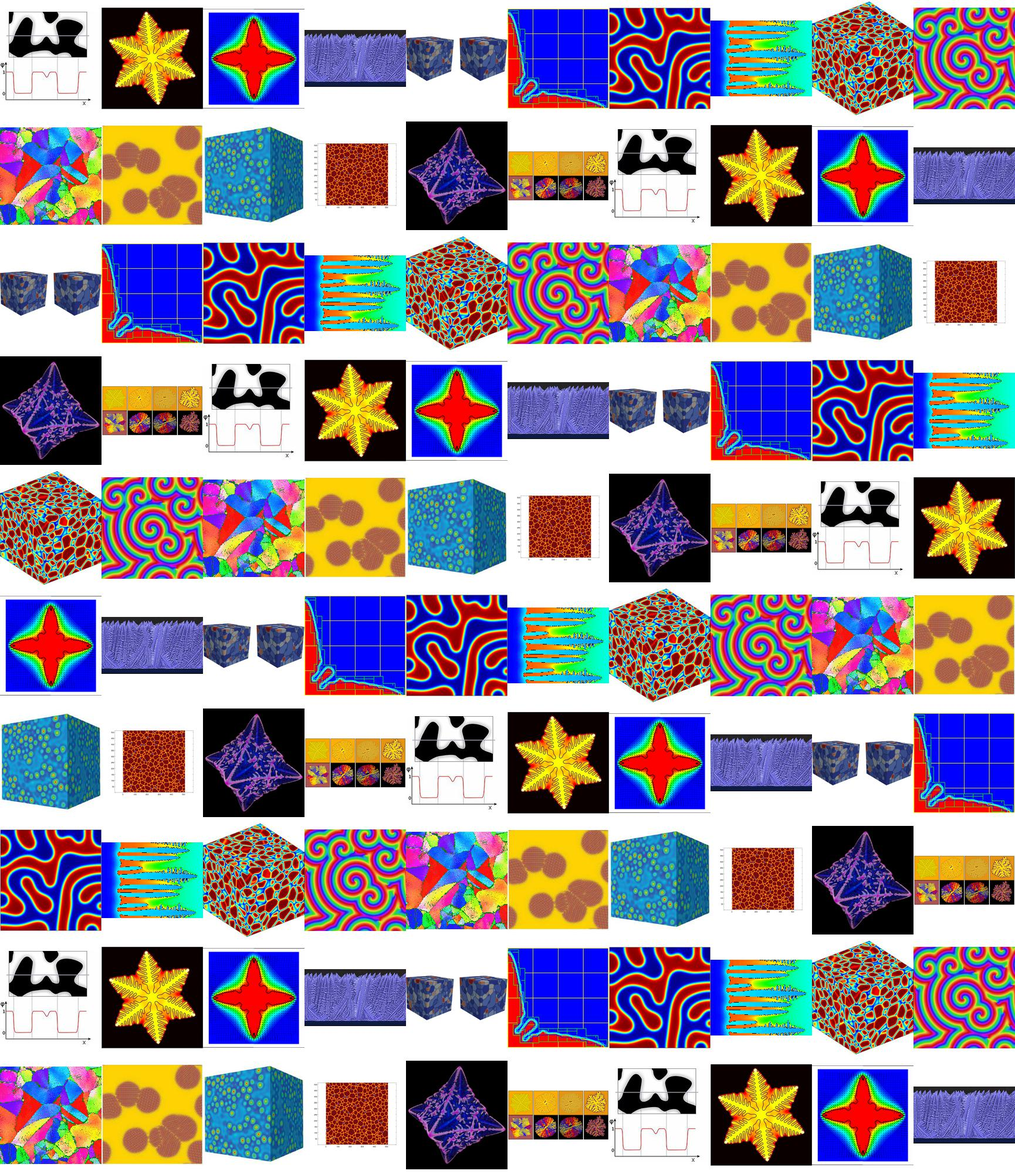
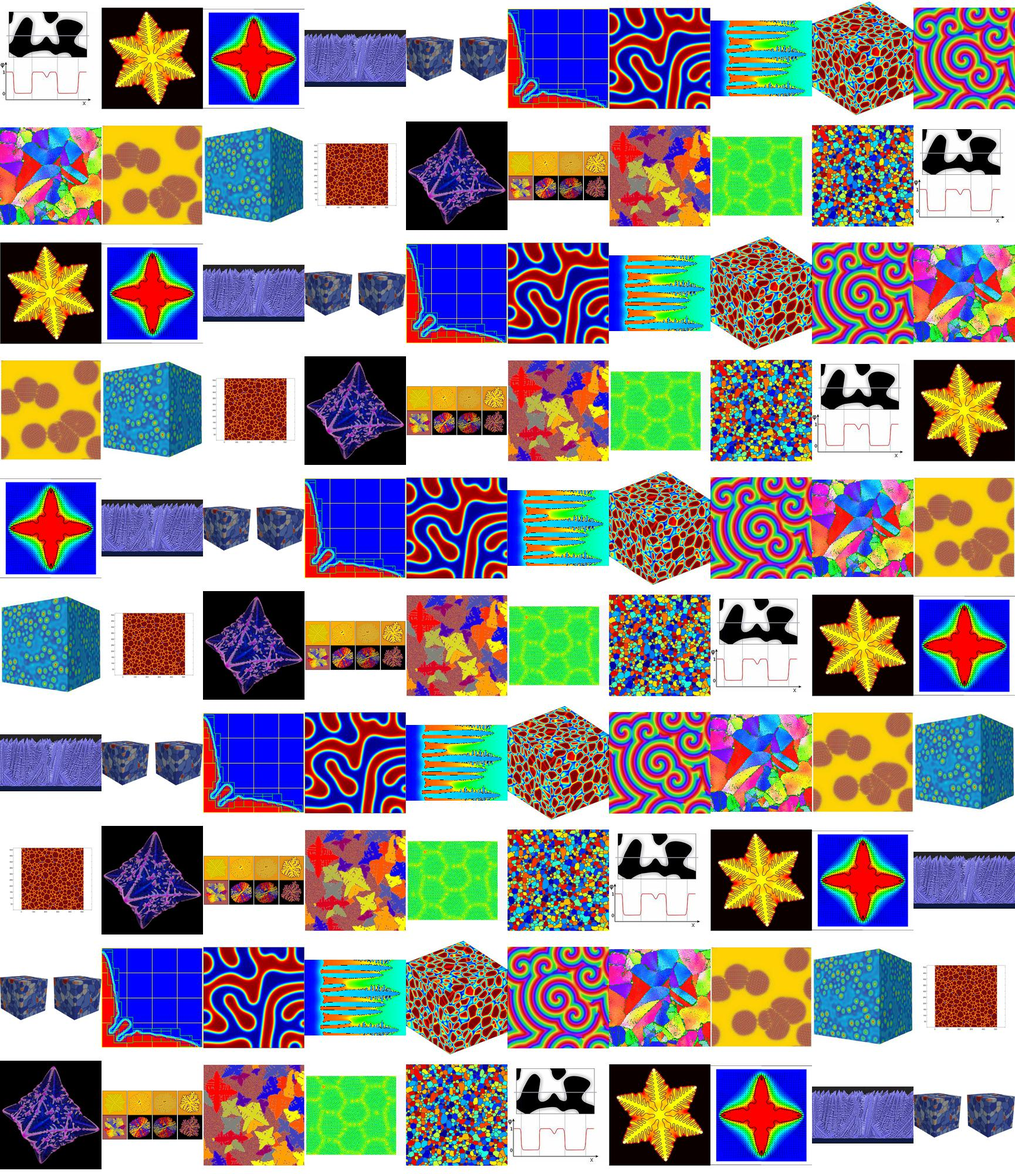
Improve efficiency of Hexbin compilation
Address #4

The efficiency of the Hexbin compilation is dramatically
improved. Images are no longer repeatedly downloaded. The hexbin.py
script now as a progressbar. Try and except blocks have been included
around image download to determine problem download images.

 * more phase field images have been added to the Hexbin

diff --git a/js/phase_field_hexbin.js b/js/phase_field_hexbin.js
@@ -1,7 +1,7 @@
 /* https://github.com/davidbau/seedrandom Copyright 2013 David Bau. */
 (function(a,b,c,d,e,f){function k(a){var b,c=a.length,e=this,f=0,g=e.i=e.j=0,h=e.S=[];for(c||(a=[c++]);d>f;)h[f]=f++;for(f=0;d>f;f++)h[f]=h[g=j&g+a[f%c]+(b=h[f])],h[g]=b;(e.g=function(a){for(var b,c=0,f=e.i,g=e.j,h=e.S;a--;)b=h[f=j&f+1],c=c*d+h[j&(h[f]=h[g=j&g+b])+(h[g]=b)];return e.i=f,e.j=g,c})(d)}function l(a,b){var e,c=[],d=(typeof a)[0];if(b&&"o"==d)for(e in a)try{c.push(l(a[e],b-1))}catch(f){}return c.length?c:"s"==d?a:a+"\0"}function m(a,b){for(var d,c=a+"",e=0;c.length>e;)b[j&e]=j&(d^=19*b[j&e])+c.charCodeAt(e++);return o(b)}function n(c){try{return a.crypto.getRandomValues(c=new Uint8Array(d)),o(c)}catch(e){return[+new Date,a,a.navigator.plugins,a.screen,o(b)]}}function o(a){return String.fromCharCode.apply(0,a)}var g=c.pow(d,e),h=c.pow(2,f),i=2*h,j=d-1;c.seedrandom=function(a,f){var j=[],p=m(l(f?[a,o(b)]:0 in arguments?a:n(),3),j),q=new k(j);return m(o(q.S),b),c.random=function(){for(var a=q.g(e),b=g,c=0;h>a;)a=(a+c)*d,b*=d,c=q.g(1);for(;a>=i;)a/=2,b/=2,c>>>=1;return(a+c)/b},p},m(c.random(),b)})(this,[],Math,256,6,52);
 
-var data = [{"url": "http://en.wikipedia.org/wiki/Phase_field_models", "image": "http://upload.wikimedia.org/wikipedia/commons/thumb/e/e7/Phase_field_order_parameter.jpg/280px-Phase_field_order_parameter.jpg", "description": "Wikipedia Phase Field Entry"}, {"url": "http://www.ctcms.nist.gov/fipy/", "image": "http://www.ctcms.nist.gov/fipy/_static/examples/phase/anisotropy/dendrite.png", "description": "FiPy Finite Volume Code"}, {"url": "http://www.mem.drexel.edu/ysun/Solidification.htm", "image": "http://www.mem.drexel.edu/ysun/files/density.png", "description": "Solidfication Simulation"}, {"url": "http://www.sim.gsic.titech.ac.jp/Japanese/Member/shimokawabe/research.html", "image": "http://www.sim.gsic.titech.ac.jp/Japanese/Member/shimokawabe/images/phase_field_shimokawabe_350_small.png", "description": "Peta-scale Phase Field Simulation"}, {"url": "https://github.com/dealii/dealii/wiki/Gallery", "image": "https://camo.githubusercontent.com/e1e7e96154e04f94f274485395d413878d3bacb5/687474703a2f2f7777772e6465616c69692e6f72672f696d616765732f77696b692f67616c6c6572792f47616c6c6572792d477261696e5f67726f7774682e706e67", "description": "Dealii Finite Element Library"}, {"url": "http://ktchu.serendipityresearch.org/research/CSE/", "image": "http://ktchu.serendipityresearch.org/research/CSE/figs/SAMR-phase_field.png", "description": "Serendipity Research"}, {"url": "http://www.comsol.com/model/phase-separation-2054", "image": "http://www.comsol.com/model/image/2054/big.png", "description": "COMSOL Finite Element Tool"}, {"url": "http://solidification.mechanical.illinois.edu/Movies/movies.html", "image": "http://solidification.mechanical.illinois.edu/Movies/Dantzig/scn1_033.gif", "description": "Binary Alloy Simulation"}, {"url": "https://www.mtm.kuleuven.be/Onderzoek/Semper/SolMicS/Research/GrainStructuresF", "image": "https://www.mtm.kuleuven.be/Onderzoek/Semper/SolMicS/Images/GGGrainanisotropic/image_preview", "description": "Evolution of Grain Structures"}, {"url": "http://www.chaos.umd.edu/gallery/pattern.html", "image": "http://www.chaos.umd.edu/gallery/spiral3.jpg", "description": "Ginzburg-Landau Equation"}, {"url": "http://www.mpie.de/index.php?id=triplejunction", "image": "http://www.mpie.de/typo3temp/pics/bbe3fe01f2.png", "description": "Modeling of Polycrystalline Microstructure Evolution"}, {"url": "http://dantzig.mechanical.illinois.edu/", "image": "http://dantzig.mechanical.illinois.edu/PFC/t24rg_rotflip.jpg", "description": "Phase Field Crystal Modeling of Microstructure"}, {"url": "http://www.uwethiele.de/", "image": "http://pauli.uni-muenster.de/~thiele/Jpg/Thie13_fig12g.jpg", "description": "Swift-Hohenberg Equation"}, {"url": "https://www.youtube.com/watch?v=0BijYlB28ME", "image": "http://i.ytimg.com/vi/0BijYlB28ME/maxresdefault.jpg", "description": "Phase Field Model for Grain Growth with Second Phase"}, {"url": "http://www.nist.gov/itl/math/hpcvg/dendrite.cfm", "image": "http://www.nist.gov/itl/math/hpcvg/upload/cover-dendrite.jpg", "description": "A Simulated Dendrite of Copper-Nickel Alloy"}, {"url": "http://users.ices.utexas.edu/~jrc/ccm/itamit/abstracts.php", "image": "http://users.ices.utexas.edu/~jrc/ccm/itamit/granasy1.jpg", "description": "Phase Field Theory of Polycrystalline Freezing"}, {"url": "http://en.wikipedia.org/wiki/Phase_field_models", "image": "http://upload.wikimedia.org/wikipedia/commons/thumb/e/e7/Phase_field_order_parameter.jpg/280px-Phase_field_order_parameter.jpg", "description": "Wikipedia Phase Field Entry"}, {"url": "http://www.ctcms.nist.gov/fipy/", "image": "http://www.ctcms.nist.gov/fipy/_static/examples/phase/anisotropy/dendrite.png", "description": "FiPy Finite Volume Code"}, {"url": "http://www.mem.drexel.edu/ysun/Solidification.htm", "image": "http://www.mem.drexel.edu/ysun/files/density.png", "description": "Solidfication Simulation"}, {"url": "http://www.sim.gsic.titech.ac.jp/Japanese/Member/shimokawabe/research.html", "image": "http://www.sim.gsic.titech.ac.jp/Japanese/Member/shimokawabe/images/phase_field_shimokawabe_350_small.png", "description": "Peta-scale Phase Field Simulation"}, {"url": "https://github.com/dealii/dealii/wiki/Gallery", "image": "https://camo.githubusercontent.com/e1e7e96154e04f94f274485395d413878d3bacb5/687474703a2f2f7777772e6465616c69692e6f72672f696d616765732f77696b692f67616c6c6572792f47616c6c6572792d477261696e5f67726f7774682e706e67", "description": "Dealii Finite Element Library"}, {"url": "http://ktchu.serendipityresearch.org/research/CSE/", "image": "http://ktchu.serendipityresearch.org/research/CSE/figs/SAMR-phase_field.png", "description": "Serendipity Research"}, {"url": "http://www.comsol.com/model/phase-separation-2054", "image": "http://www.comsol.com/model/image/2054/big.png", "description": "COMSOL Finite Element Tool"}, {"url": "http://solidification.mechanical.illinois.edu/Movies/movies.html", "image": "http://solidification.mechanical.illinois.edu/Movies/Dantzig/scn1_033.gif", "description": "Binary Alloy Simulation"}, {"url": "https://www.mtm.kuleuven.be/Onderzoek/Semper/SolMicS/Research/GrainStructuresF", "image": "https://www.mtm.kuleuven.be/Onderzoek/Semper/SolMicS/Images/GGGrainanisotropic/image_preview", "description": "Evolution of Grain Structures"}, {"url": "http://www.chaos.umd.edu/gallery/pattern.html", "image": "http://www.chaos.umd.edu/gallery/spiral3.jpg", "description": "Ginzburg-Landau Equation"}, {"url": "http://www.mpie.de/index.php?id=triplejunction", "image": "http://www.mpie.de/typo3temp/pics/bbe3fe01f2.png", "description": "Modeling of Polycrystalline Microstructure Evolution"}, {"url": "http://dantzig.mechanical.illinois.edu/", "image": "http://dantzig.mechanical.illinois.edu/PFC/t24rg_rotflip.jpg", "description": "Phase Field Crystal Modeling of Microstructure"}, {"url": "http://www.uwethiele.de/", "image": "http://pauli.uni-muenster.de/~thiele/Jpg/Thie13_fig12g.jpg", "description": "Swift-Hohenberg Equation"}, {"url": "https://www.youtube.com/watch?v=0BijYlB28ME", "image": "http://i.ytimg.com/vi/0BijYlB28ME/maxresdefault.jpg", "description": "Phase Field Model for Grain Growth with Second Phase"}, {"url": "http://www.nist.gov/itl/math/hpcvg/dendrite.cfm", "image": "http://www.nist.gov/itl/math/hpcvg/upload/cover-dendrite.jpg", "description": "A Simulated Dendrite of Copper-Nickel Alloy"}, {"url": "http://users.ices.utexas.edu/~jrc/ccm/itamit/abstracts.php", "image": "http://users.ices.utexas.edu/~jrc/ccm/itamit/granasy1.jpg", "description": "Phase Field Theory of Polycrystalline Freezing"}, {"url": "http://en.wikipedia.org/wiki/Phase_field_models", "image": "http://upload.wikimedia.org/wikipedia/commons/thumb/e/e7/Phase_field_order_parameter.jpg/280px-Phase_field_order_parameter.jpg", "description": "Wikipedia Phase Field Entry"}, {"url": "http://www.ctcms.nist.gov/fipy/", "image": "http://www.ctcms.nist.gov/fipy/_static/examples/phase/anisotropy/dendrite.png", "description": "FiPy Finite Volume Code"}, {"url": "http://www.mem.drexel.edu/ysun/Solidification.htm", "image": "http://www.mem.drexel.edu/ysun/files/density.png", "description": "Solidfication Simulation"}, {"url": "http://www.sim.gsic.titech.ac.jp/Japanese/Member/shimokawabe/research.html", "image": "http://www.sim.gsic.titech.ac.jp/Japanese/Member/shimokawabe/images/phase_field_shimokawabe_350_small.png", "description": "Peta-scale Phase Field Simulation"}, {"url": "https://github.com/dealii/dealii/wiki/Gallery", "image": "https://camo.githubusercontent.com/e1e7e96154e04f94f274485395d413878d3bacb5/687474703a2f2f7777772e6465616c69692e6f72672f696d616765732f77696b692f67616c6c6572792f47616c6c6572792d477261696e5f67726f7774682e706e67", "description": "Dealii Finite Element Library"}, {"url": "http://ktchu.serendipityresearch.org/research/CSE/", "image": "http://ktchu.serendipityresearch.org/research/CSE/figs/SAMR-phase_field.png", "description": "Serendipity Research"}, {"url": "http://www.comsol.com/model/phase-separation-2054", "image": "http://www.comsol.com/model/image/2054/big.png", "description": "COMSOL Finite Element Tool"}, {"url": "http://solidification.mechanical.illinois.edu/Movies/movies.html", "image": "http://solidification.mechanical.illinois.edu/Movies/Dantzig/scn1_033.gif", "description": "Binary Alloy Simulation"}, {"url": "https://www.mtm.kuleuven.be/Onderzoek/Semper/SolMicS/Research/GrainStructuresF", "image": "https://www.mtm.kuleuven.be/Onderzoek/Semper/SolMicS/Images/GGGrainanisotropic/image_preview", "description": "Evolution of Grain Structures"}, {"url": "http://www.chaos.umd.edu/gallery/pattern.html", "image": "http://www.chaos.umd.edu/gallery/spiral3.jpg", "description": "Ginzburg-Landau Equation"}, {"url": "http://www.mpie.de/index.php?id=triplejunction", "image": "http://www.mpie.de/typo3temp/pics/bbe3fe01f2.png", "description": "Modeling of Polycrystalline Microstructure Evolution"}, {"url": "http://dantzig.mechanical.illinois.edu/", "image": "http://dantzig.mechanical.illinois.edu/PFC/t24rg_rotflip.jpg", "description": "Phase Field Crystal Modeling of Microstructure"}, {"url": "http://www.uwethiele.de/", "image": "http://pauli.uni-muenster.de/~thiele/Jpg/Thie13_fig12g.jpg", "description": "Swift-Hohenberg Equation"}, {"url": "https://www.youtube.com/watch?v=0BijYlB28ME", "image": "http://i.ytimg.com/vi/0BijYlB28ME/maxresdefault.jpg", "description": "Phase Field Model for Grain Growth with Second Phase"}, {"url": "http://www.nist.gov/itl/math/hpcvg/dendrite.cfm", "image": "http://www.nist.gov/itl/math/hpcvg/upload/cover-dendrite.jpg", "description": "A Simulated Dendrite of Copper-Nickel Alloy"}, {"url": "http://users.ices.utexas.edu/~jrc/ccm/itamit/abstracts.php", "image": "http://users.ices.utexas.edu/~jrc/ccm/itamit/granasy1.jpg", "description": "Phase Field Theory of Polycrystalline Freezing"}, {"url": "http://en.wikipedia.org/wiki/Phase_field_models", "image": "http://upload.wikimedia.org/wikipedia/commons/thumb/e/e7/Phase_field_order_parameter.jpg/280px-Phase_field_order_parameter.jpg", "description": "Wikipedia Phase Field Entry"}, {"url": "http://www.ctcms.nist.gov/fipy/", "image": "http://www.ctcms.nist.gov/fipy/_static/examples/phase/anisotropy/dendrite.png", "description": "FiPy Finite Volume Code"}, {"url": "http://www.mem.drexel.edu/ysun/Solidification.htm", "image": "http://www.mem.drexel.edu/ysun/files/density.png", "description": "Solidfication Simulation"}, {"url": "http://www.sim.gsic.titech.ac.jp/Japanese/Member/shimokawabe/research.html", "image": "http://www.sim.gsic.titech.ac.jp/Japanese/Member/shimokawabe/images/phase_field_shimokawabe_350_small.png", "description": "Peta-scale Phase Field Simulation"}, {"url": "https://github.com/dealii/dealii/wiki/Gallery", "image": "https://camo.githubusercontent.com/e1e7e96154e04f94f274485395d413878d3bacb5/687474703a2f2f7777772e6465616c69692e6f72672f696d616765732f77696b692f67616c6c6572792f47616c6c6572792d477261696e5f67726f7774682e706e67", "description": "Dealii Finite Element Library"}, {"url": "http://ktchu.serendipityresearch.org/research/CSE/", "image": "http://ktchu.serendipityresearch.org/research/CSE/figs/SAMR-phase_field.png", "description": "Serendipity Research"}, {"url": "http://www.comsol.com/model/phase-separation-2054", "image": "http://www.comsol.com/model/image/2054/big.png", "description": "COMSOL Finite Element Tool"}, {"url": "http://solidification.mechanical.illinois.edu/Movies/movies.html", "image": "http://solidification.mechanical.illinois.edu/Movies/Dantzig/scn1_033.gif", "description": "Binary Alloy Simulation"}, {"url": "https://www.mtm.kuleuven.be/Onderzoek/Semper/SolMicS/Research/GrainStructuresF", "image": "https://www.mtm.kuleuven.be/Onderzoek/Semper/SolMicS/Images/GGGrainanisotropic/image_preview", "description": "Evolution of Grain Structures"}, {"url": "http://www.chaos.umd.edu/gallery/pattern.html", "image": "http://www.chaos.umd.edu/gallery/spiral3.jpg", "description": "Ginzburg-Landau Equation"}, {"url": "http://www.mpie.de/index.php?id=triplejunction", "image": "http://www.mpie.de/typo3temp/pics/bbe3fe01f2.png", "description": "Modeling of Polycrystalline Microstructure Evolution"}, {"url": "http://dantzig.mechanical.illinois.edu/", "image": "http://dantzig.mechanical.illinois.edu/PFC/t24rg_rotflip.jpg", "description": "Phase Field Crystal Modeling of Microstructure"}, {"url": "http://www.uwethiele.de/", "image": "http://pauli.uni-muenster.de/~thiele/Jpg/Thie13_fig12g.jpg", "description": "Swift-Hohenberg Equation"}, {"url": "https://www.youtube.com/watch?v=0BijYlB28ME", "image": "http://i.ytimg.com/vi/0BijYlB28ME/maxresdefault.jpg", "description": "Phase Field Model for Grain Growth with Second Phase"}, {"url": "http://www.nist.gov/itl/math/hpcvg/dendrite.cfm", "image": "http://www.nist.gov/itl/math/hpcvg/upload/cover-dendrite.jpg", "description": "A Simulated Dendrite of Copper-Nickel Alloy"}, {"url": "http://users.ices.utexas.edu/~jrc/ccm/itamit/abstracts.php", "image": "http://users.ices.utexas.edu/~jrc/ccm/itamit/granasy1.jpg", "description": "Phase Field Theory of Polycrystalline Freezing"}, {"url": "http://en.wikipedia.org/wiki/Phase_field_models", "image": "http://upload.wikimedia.org/wikipedia/commons/thumb/e/e7/Phase_field_order_parameter.jpg/280px-Phase_field_order_parameter.jpg", "description": "Wikipedia Phase Field Entry"}, {"url": "http://www.ctcms.nist.gov/fipy/", "image": "http://www.ctcms.nist.gov/fipy/_static/examples/phase/anisotropy/dendrite.png", "description": "FiPy Finite Volume Code"}, {"url": "http://www.mem.drexel.edu/ysun/Solidification.htm", "image": "http://www.mem.drexel.edu/ysun/files/density.png", "description": "Solidfication Simulation"}, {"url": "http://www.sim.gsic.titech.ac.jp/Japanese/Member/shimokawabe/research.html", "image": "http://www.sim.gsic.titech.ac.jp/Japanese/Member/shimokawabe/images/phase_field_shimokawabe_350_small.png", "description": "Peta-scale Phase Field Simulation"}, {"url": "https://github.com/dealii/dealii/wiki/Gallery", "image": "https://camo.githubusercontent.com/e1e7e96154e04f94f274485395d413878d3bacb5/687474703a2f2f7777772e6465616c69692e6f72672f696d616765732f77696b692f67616c6c6572792f47616c6c6572792d477261696e5f67726f7774682e706e67", "description": "Dealii Finite Element Library"}, {"url": "http://ktchu.serendipityresearch.org/research/CSE/", "image": "http://ktchu.serendipityresearch.org/research/CSE/figs/SAMR-phase_field.png", "description": "Serendipity Research"}, {"url": "http://www.comsol.com/model/phase-separation-2054", "image": "http://www.comsol.com/model/image/2054/big.png", "description": "COMSOL Finite Element Tool"}, {"url": "http://solidification.mechanical.illinois.edu/Movies/movies.html", "image": "http://solidification.mechanical.illinois.edu/Movies/Dantzig/scn1_033.gif", "description": "Binary Alloy Simulation"}, {"url": "https://www.mtm.kuleuven.be/Onderzoek/Semper/SolMicS/Research/GrainStructuresF", "image": "https://www.mtm.kuleuven.be/Onderzoek/Semper/SolMicS/Images/GGGrainanisotropic/image_preview", "description": "Evolution of Grain Structures"}, {"url": "http://www.chaos.umd.edu/gallery/pattern.html", "image": "http://www.chaos.umd.edu/gallery/spiral3.jpg", "description": "Ginzburg-Landau Equation"}, {"url": "http://www.mpie.de/index.php?id=triplejunction", "image": "http://www.mpie.de/typo3temp/pics/bbe3fe01f2.png", "description": "Modeling of Polycrystalline Microstructure Evolution"}, {"url": "http://dantzig.mechanical.illinois.edu/", "image": "http://dantzig.mechanical.illinois.edu/PFC/t24rg_rotflip.jpg", "description": "Phase Field Crystal Modeling of Microstructure"}, {"url": "http://www.uwethiele.de/", "image": "http://pauli.uni-muenster.de/~thiele/Jpg/Thie13_fig12g.jpg", "description": "Swift-Hohenberg Equation"}, {"url": "https://www.youtube.com/watch?v=0BijYlB28ME", "image": "http://i.ytimg.com/vi/0BijYlB28ME/maxresdefault.jpg", "description": "Phase Field Model for Grain Growth with Second Phase"}, {"url": "http://www.nist.gov/itl/math/hpcvg/dendrite.cfm", "image": "http://www.nist.gov/itl/math/hpcvg/upload/cover-dendrite.jpg", "description": "A Simulated Dendrite of Copper-Nickel Alloy"}, {"url": "http://users.ices.utexas.edu/~jrc/ccm/itamit/abstracts.php", "image": "http://users.ices.utexas.edu/~jrc/ccm/itamit/granasy1.jpg", "description": "Phase Field Theory of Polycrystalline Freezing"}, {"url": "http://en.wikipedia.org/wiki/Phase_field_models", "image": "http://upload.wikimedia.org/wikipedia/commons/thumb/e/e7/Phase_field_order_parameter.jpg/280px-Phase_field_order_parameter.jpg", "description": "Wikipedia Phase Field Entry"}, {"url": "http://www.ctcms.nist.gov/fipy/", "image": "http://www.ctcms.nist.gov/fipy/_static/examples/phase/anisotropy/dendrite.png", "description": "FiPy Finite Volume Code"}, {"url": "http://www.mem.drexel.edu/ysun/Solidification.htm", "image": "http://www.mem.drexel.edu/ysun/files/density.png", "description": "Solidfication Simulation"}, {"url": "http://www.sim.gsic.titech.ac.jp/Japanese/Member/shimokawabe/research.html", "image": "http://www.sim.gsic.titech.ac.jp/Japanese/Member/shimokawabe/images/phase_field_shimokawabe_350_small.png", "description": "Peta-scale Phase Field Simulation"}, {"url": "https://github.com/dealii/dealii/wiki/Gallery", "image": "https://camo.githubusercontent.com/e1e7e96154e04f94f274485395d413878d3bacb5/687474703a2f2f7777772e6465616c69692e6f72672f696d616765732f77696b692f67616c6c6572792f47616c6c6572792d477261696e5f67726f7774682e706e67", "description": "Dealii Finite Element Library"}, {"url": "http://ktchu.serendipityresearch.org/research/CSE/", "image": "http://ktchu.serendipityresearch.org/research/CSE/figs/SAMR-phase_field.png", "description": "Serendipity Research"}, {"url": "http://www.comsol.com/model/phase-separation-2054", "image": "http://www.comsol.com/model/image/2054/big.png", "description": "COMSOL Finite Element Tool"}, {"url": "http://solidification.mechanical.illinois.edu/Movies/movies.html", "image": "http://solidification.mechanical.illinois.edu/Movies/Dantzig/scn1_033.gif", "description": "Binary Alloy Simulation"}, {"url": "https://www.mtm.kuleuven.be/Onderzoek/Semper/SolMicS/Research/GrainStructuresF", "image": "https://www.mtm.kuleuven.be/Onderzoek/Semper/SolMicS/Images/GGGrainanisotropic/image_preview", "description": "Evolution of Grain Structures"}, {"url": "http://www.chaos.umd.edu/gallery/pattern.html", "image": "http://www.chaos.umd.edu/gallery/spiral3.jpg", "description": "Ginzburg-Landau Equation"}, {"url": "http://www.mpie.de/index.php?id=triplejunction", "image": "http://www.mpie.de/typo3temp/pics/bbe3fe01f2.png", "description": "Modeling of Polycrystalline Microstructure Evolution"}, {"url": "http://dantzig.mechanical.illinois.edu/", "image": "http://dantzig.mechanical.illinois.edu/PFC/t24rg_rotflip.jpg", "description": "Phase Field Crystal Modeling of Microstructure"}, {"url": "http://www.uwethiele.de/", "image": "http://pauli.uni-muenster.de/~thiele/Jpg/Thie13_fig12g.jpg", "description": "Swift-Hohenberg Equation"}, {"url": "https://www.youtube.com/watch?v=0BijYlB28ME", "image": "http://i.ytimg.com/vi/0BijYlB28ME/maxresdefault.jpg", "description": "Phase Field Model for Grain Growth with Second Phase"}, {"url": "http://www.nist.gov/itl/math/hpcvg/dendrite.cfm", "image": "http://www.nist.gov/itl/math/hpcvg/upload/cover-dendrite.jpg", "description": "A Simulated Dendrite of Copper-Nickel Alloy"}, {"url": "http://users.ices.utexas.edu/~jrc/ccm/itamit/abstracts.php", "image": "http://users.ices.utexas.edu/~jrc/ccm/itamit/granasy1.jpg", "description": "Phase Field Theory of Polycrystalline Freezing"}, {"url": "http://en.wikipedia.org/wiki/Phase_field_models", "image": "http://upload.wikimedia.org/wikipedia/commons/thumb/e/e7/Phase_field_order_parameter.jpg/280px-Phase_field_order_parameter.jpg", "description": "Wikipedia Phase Field Entry"}, {"url": "http://www.ctcms.nist.gov/fipy/", "image": "http://www.ctcms.nist.gov/fipy/_static/examples/phase/anisotropy/dendrite.png", "description": "FiPy Finite Volume Code"}, {"url": "http://www.mem.drexel.edu/ysun/Solidification.htm", "image": "http://www.mem.drexel.edu/ysun/files/density.png", "description": "Solidfication Simulation"}, {"url": "http://www.sim.gsic.titech.ac.jp/Japanese/Member/shimokawabe/research.html", "image": "http://www.sim.gsic.titech.ac.jp/Japanese/Member/shimokawabe/images/phase_field_shimokawabe_350_small.png", "description": "Peta-scale Phase Field Simulation"}];
+var data = [{"url": "http://en.wikipedia.org/wiki/Phase_field_models", "image": "http://upload.wikimedia.org/wikipedia/commons/thumb/e/e7/Phase_field_order_parameter.jpg/280px-Phase_field_order_parameter.jpg", "description": "Wikipedia Phase Field Entry"}, {"url": "http://www.ctcms.nist.gov/fipy/", "image": "http://www.ctcms.nist.gov/fipy/_static/examples/phase/anisotropy/dendrite.png", "description": "FiPy Finite Volume Code"}, {"url": "http://www.mem.drexel.edu/ysun/Solidification.htm", "image": "http://www.mem.drexel.edu/ysun/files/density.png", "description": "Solidfication Simulation"}, {"url": "http://www.sim.gsic.titech.ac.jp/Japanese/Member/shimokawabe/research.html", "image": "http://www.sim.gsic.titech.ac.jp/Japanese/Member/shimokawabe/images/phase_field_shimokawabe_350_small.png", "description": "Peta-scale Phase Field Simulation"}, {"url": "https://github.com/dealii/dealii/wiki/Gallery", "image": "https://camo.githubusercontent.com/e1e7e96154e04f94f274485395d413878d3bacb5/687474703a2f2f7777772e6465616c69692e6f72672f696d616765732f77696b692f67616c6c6572792f47616c6c6572792d477261696e5f67726f7774682e706e67", "description": "Dealii Finite Element Library"}, {"url": "http://ktchu.serendipityresearch.org/research/CSE/", "image": "http://ktchu.serendipityresearch.org/research/CSE/figs/SAMR-phase_field.png", "description": "Serendipity Research"}, {"url": "http://www.comsol.com/model/phase-separation-2054", "image": "http://www.comsol.com/model/image/2054/big.png", "description": "COMSOL Finite Element Tool"}, {"url": "http://solidification.mechanical.illinois.edu/Movies/movies.html", "image": "http://solidification.mechanical.illinois.edu/Movies/Dantzig/scn1_033.gif", "description": "Binary Alloy Simulation"}, {"url": "https://www.mtm.kuleuven.be/Onderzoek/Semper/SolMicS/Research/GrainStructuresF", "image": "https://www.mtm.kuleuven.be/Onderzoek/Semper/SolMicS/Images/GGGrainanisotropic/image_preview", "description": "Evolution of Grain Structures"}, {"url": "http://www.chaos.umd.edu/gallery/pattern.html", "image": "http://www.chaos.umd.edu/gallery/spiral3.jpg", "description": "Ginzburg-Landau Equation"}, {"url": "http://www.mpie.de/index.php?id=triplejunction", "image": "http://www.mpie.de/typo3temp/pics/bbe3fe01f2.png", "description": "Modeling of Polycrystalline Microstructure Evolution"}, {"url": "http://dantzig.mechanical.illinois.edu/", "image": "http://dantzig.mechanical.illinois.edu/PFC/t24rg_rotflip.jpg", "description": "Phase Field Crystal Modeling of Microstructure"}, {"url": "http://www.uwethiele.de/", "image": "http://pauli.uni-muenster.de/~thiele/Jpg/Thie13_fig12g.jpg", "description": "Swift-Hohenberg Equation"}, {"url": "https://www.youtube.com/watch?v=0BijYlB28ME", "image": "http://i.ytimg.com/vi/0BijYlB28ME/maxresdefault.jpg", "description": "Phase Field Model for Grain Growth with Second Phase"}, {"url": "http://www.nist.gov/itl/math/hpcvg/dendrite.cfm", "image": "http://www.nist.gov/itl/math/hpcvg/upload/cover-dendrite.jpg", "description": "A Simulated Dendrite of Copper-Nickel Alloy"}, {"url": "http://users.ices.utexas.edu/~jrc/ccm/itamit/abstracts.php", "image": "http://users.ices.utexas.edu/~jrc/ccm/itamit/granasy1.jpg", "description": "Phase Field Theory of Polycrystalline Freezing"}, {"url": "http://spaceflight.esa.int/impress/text/pop-up/phase.html", "image": "http://spaceflight.esa.int/impress/text/pop-up/phase.jpg", "description": "2D Phase Field Simulations of Polycrystalline Solidification"}, {"url": "http://www.cis.kit.ac.jp/~takaki/phase/pfc1_e.html", "image": "http://www.cis.kit.ac.jp/~takaki/phase/movie/pfc1_def.gif", "description": "Phase-Field-Crystal Simulations for Solidification and Deformation"}, {"url": "http://magnetserver.cmpe.ubc.ca/wiki/index.php/Sina_Shahandeh", "image": "http://magnetserver.cmpe.ubc.ca/wiki/images/thumb/8/80/RGBLable_border_Uniform_2000.png/250px-RGBLable_border_Uniform_2000.png", "description": "Simulated grain structure using phase field method"}, {"url": "http://en.wikipedia.org/wiki/Phase_field_models", "image": "http://upload.wikimedia.org/wikipedia/commons/thumb/e/e7/Phase_field_order_parameter.jpg/280px-Phase_field_order_parameter.jpg", "description": "Wikipedia Phase Field Entry"}, {"url": "http://www.ctcms.nist.gov/fipy/", "image": "http://www.ctcms.nist.gov/fipy/_static/examples/phase/anisotropy/dendrite.png", "description": "FiPy Finite Volume Code"}, {"url": "http://www.mem.drexel.edu/ysun/Solidification.htm", "image": "http://www.mem.drexel.edu/ysun/files/density.png", "description": "Solidfication Simulation"}, {"url": "http://www.sim.gsic.titech.ac.jp/Japanese/Member/shimokawabe/research.html", "image": "http://www.sim.gsic.titech.ac.jp/Japanese/Member/shimokawabe/images/phase_field_shimokawabe_350_small.png", "description": "Peta-scale Phase Field Simulation"}, {"url": "https://github.com/dealii/dealii/wiki/Gallery", "image": "https://camo.githubusercontent.com/e1e7e96154e04f94f274485395d413878d3bacb5/687474703a2f2f7777772e6465616c69692e6f72672f696d616765732f77696b692f67616c6c6572792f47616c6c6572792d477261696e5f67726f7774682e706e67", "description": "Dealii Finite Element Library"}, {"url": "http://ktchu.serendipityresearch.org/research/CSE/", "image": "http://ktchu.serendipityresearch.org/research/CSE/figs/SAMR-phase_field.png", "description": "Serendipity Research"}, {"url": "http://www.comsol.com/model/phase-separation-2054", "image": "http://www.comsol.com/model/image/2054/big.png", "description": "COMSOL Finite Element Tool"}, {"url": "http://solidification.mechanical.illinois.edu/Movies/movies.html", "image": "http://solidification.mechanical.illinois.edu/Movies/Dantzig/scn1_033.gif", "description": "Binary Alloy Simulation"}, {"url": "https://www.mtm.kuleuven.be/Onderzoek/Semper/SolMicS/Research/GrainStructuresF", "image": "https://www.mtm.kuleuven.be/Onderzoek/Semper/SolMicS/Images/GGGrainanisotropic/image_preview", "description": "Evolution of Grain Structures"}, {"url": "http://www.chaos.umd.edu/gallery/pattern.html", "image": "http://www.chaos.umd.edu/gallery/spiral3.jpg", "description": "Ginzburg-Landau Equation"}, {"url": "http://www.mpie.de/index.php?id=triplejunction", "image": "http://www.mpie.de/typo3temp/pics/bbe3fe01f2.png", "description": "Modeling of Polycrystalline Microstructure Evolution"}, {"url": "http://dantzig.mechanical.illinois.edu/", "image": "http://dantzig.mechanical.illinois.edu/PFC/t24rg_rotflip.jpg", "description": "Phase Field Crystal Modeling of Microstructure"}, {"url": "http://www.uwethiele.de/", "image": "http://pauli.uni-muenster.de/~thiele/Jpg/Thie13_fig12g.jpg", "description": "Swift-Hohenberg Equation"}, {"url": "https://www.youtube.com/watch?v=0BijYlB28ME", "image": "http://i.ytimg.com/vi/0BijYlB28ME/maxresdefault.jpg", "description": "Phase Field Model for Grain Growth with Second Phase"}, {"url": "http://www.nist.gov/itl/math/hpcvg/dendrite.cfm", "image": "http://www.nist.gov/itl/math/hpcvg/upload/cover-dendrite.jpg", "description": "A Simulated Dendrite of Copper-Nickel Alloy"}, {"url": "http://users.ices.utexas.edu/~jrc/ccm/itamit/abstracts.php", "image": "http://users.ices.utexas.edu/~jrc/ccm/itamit/granasy1.jpg", "description": "Phase Field Theory of Polycrystalline Freezing"}, {"url": "http://spaceflight.esa.int/impress/text/pop-up/phase.html", "image": "http://spaceflight.esa.int/impress/text/pop-up/phase.jpg", "description": "2D Phase Field Simulations of Polycrystalline Solidification"}, {"url": "http://www.cis.kit.ac.jp/~takaki/phase/pfc1_e.html", "image": "http://www.cis.kit.ac.jp/~takaki/phase/movie/pfc1_def.gif", "description": "Phase-Field-Crystal Simulations for Solidification and Deformation"}, {"url": "http://magnetserver.cmpe.ubc.ca/wiki/index.php/Sina_Shahandeh", "image": "http://magnetserver.cmpe.ubc.ca/wiki/images/thumb/8/80/RGBLable_border_Uniform_2000.png/250px-RGBLable_border_Uniform_2000.png", "description": "Simulated grain structure using phase field method"}, {"url": "http://en.wikipedia.org/wiki/Phase_field_models", "image": "http://upload.wikimedia.org/wikipedia/commons/thumb/e/e7/Phase_field_order_parameter.jpg/280px-Phase_field_order_parameter.jpg", "description": "Wikipedia Phase Field Entry"}, {"url": "http://www.ctcms.nist.gov/fipy/", "image": "http://www.ctcms.nist.gov/fipy/_static/examples/phase/anisotropy/dendrite.png", "description": "FiPy Finite Volume Code"}, {"url": "http://www.mem.drexel.edu/ysun/Solidification.htm", "image": "http://www.mem.drexel.edu/ysun/files/density.png", "description": "Solidfication Simulation"}, {"url": "http://www.sim.gsic.titech.ac.jp/Japanese/Member/shimokawabe/research.html", "image": "http://www.sim.gsic.titech.ac.jp/Japanese/Member/shimokawabe/images/phase_field_shimokawabe_350_small.png", "description": "Peta-scale Phase Field Simulation"}, {"url": "https://github.com/dealii/dealii/wiki/Gallery", "image": "https://camo.githubusercontent.com/e1e7e96154e04f94f274485395d413878d3bacb5/687474703a2f2f7777772e6465616c69692e6f72672f696d616765732f77696b692f67616c6c6572792f47616c6c6572792d477261696e5f67726f7774682e706e67", "description": "Dealii Finite Element Library"}, {"url": "http://ktchu.serendipityresearch.org/research/CSE/", "image": "http://ktchu.serendipityresearch.org/research/CSE/figs/SAMR-phase_field.png", "description": "Serendipity Research"}, {"url": "http://www.comsol.com/model/phase-separation-2054", "image": "http://www.comsol.com/model/image/2054/big.png", "description": "COMSOL Finite Element Tool"}, {"url": "http://solidification.mechanical.illinois.edu/Movies/movies.html", "image": "http://solidification.mechanical.illinois.edu/Movies/Dantzig/scn1_033.gif", "description": "Binary Alloy Simulation"}, {"url": "https://www.mtm.kuleuven.be/Onderzoek/Semper/SolMicS/Research/GrainStructuresF", "image": "https://www.mtm.kuleuven.be/Onderzoek/Semper/SolMicS/Images/GGGrainanisotropic/image_preview", "description": "Evolution of Grain Structures"}, {"url": "http://www.chaos.umd.edu/gallery/pattern.html", "image": "http://www.chaos.umd.edu/gallery/spiral3.jpg", "description": "Ginzburg-Landau Equation"}, {"url": "http://www.mpie.de/index.php?id=triplejunction", "image": "http://www.mpie.de/typo3temp/pics/bbe3fe01f2.png", "description": "Modeling of Polycrystalline Microstructure Evolution"}, {"url": "http://dantzig.mechanical.illinois.edu/", "image": "http://dantzig.mechanical.illinois.edu/PFC/t24rg_rotflip.jpg", "description": "Phase Field Crystal Modeling of Microstructure"}, {"url": "http://www.uwethiele.de/", "image": "http://pauli.uni-muenster.de/~thiele/Jpg/Thie13_fig12g.jpg", "description": "Swift-Hohenberg Equation"}, {"url": "https://www.youtube.com/watch?v=0BijYlB28ME", "image": "http://i.ytimg.com/vi/0BijYlB28ME/maxresdefault.jpg", "description": "Phase Field Model for Grain Growth with Second Phase"}, {"url": "http://www.nist.gov/itl/math/hpcvg/dendrite.cfm", "image": "http://www.nist.gov/itl/math/hpcvg/upload/cover-dendrite.jpg", "description": "A Simulated Dendrite of Copper-Nickel Alloy"}, {"url": "http://users.ices.utexas.edu/~jrc/ccm/itamit/abstracts.php", "image": "http://users.ices.utexas.edu/~jrc/ccm/itamit/granasy1.jpg", "description": "Phase Field Theory of Polycrystalline Freezing"}, {"url": "http://spaceflight.esa.int/impress/text/pop-up/phase.html", "image": "http://spaceflight.esa.int/impress/text/pop-up/phase.jpg", "description": "2D Phase Field Simulations of Polycrystalline Solidification"}, {"url": "http://www.cis.kit.ac.jp/~takaki/phase/pfc1_e.html", "image": "http://www.cis.kit.ac.jp/~takaki/phase/movie/pfc1_def.gif", "description": "Phase-Field-Crystal Simulations for Solidification and Deformation"}, {"url": "http://magnetserver.cmpe.ubc.ca/wiki/index.php/Sina_Shahandeh", "image": "http://magnetserver.cmpe.ubc.ca/wiki/images/thumb/8/80/RGBLable_border_Uniform_2000.png/250px-RGBLable_border_Uniform_2000.png", "description": "Simulated grain structure using phase field method"}, {"url": "http://en.wikipedia.org/wiki/Phase_field_models", "image": "http://upload.wikimedia.org/wikipedia/commons/thumb/e/e7/Phase_field_order_parameter.jpg/280px-Phase_field_order_parameter.jpg", "description": "Wikipedia Phase Field Entry"}, {"url": "http://www.ctcms.nist.gov/fipy/", "image": "http://www.ctcms.nist.gov/fipy/_static/examples/phase/anisotropy/dendrite.png", "description": "FiPy Finite Volume Code"}, {"url": "http://www.mem.drexel.edu/ysun/Solidification.htm", "image": "http://www.mem.drexel.edu/ysun/files/density.png", "description": "Solidfication Simulation"}, {"url": "http://www.sim.gsic.titech.ac.jp/Japanese/Member/shimokawabe/research.html", "image": "http://www.sim.gsic.titech.ac.jp/Japanese/Member/shimokawabe/images/phase_field_shimokawabe_350_small.png", "description": "Peta-scale Phase Field Simulation"}, {"url": "https://github.com/dealii/dealii/wiki/Gallery", "image": "https://camo.githubusercontent.com/e1e7e96154e04f94f274485395d413878d3bacb5/687474703a2f2f7777772e6465616c69692e6f72672f696d616765732f77696b692f67616c6c6572792f47616c6c6572792d477261696e5f67726f7774682e706e67", "description": "Dealii Finite Element Library"}, {"url": "http://ktchu.serendipityresearch.org/research/CSE/", "image": "http://ktchu.serendipityresearch.org/research/CSE/figs/SAMR-phase_field.png", "description": "Serendipity Research"}, {"url": "http://www.comsol.com/model/phase-separation-2054", "image": "http://www.comsol.com/model/image/2054/big.png", "description": "COMSOL Finite Element Tool"}, {"url": "http://solidification.mechanical.illinois.edu/Movies/movies.html", "image": "http://solidification.mechanical.illinois.edu/Movies/Dantzig/scn1_033.gif", "description": "Binary Alloy Simulation"}, {"url": "https://www.mtm.kuleuven.be/Onderzoek/Semper/SolMicS/Research/GrainStructuresF", "image": "https://www.mtm.kuleuven.be/Onderzoek/Semper/SolMicS/Images/GGGrainanisotropic/image_preview", "description": "Evolution of Grain Structures"}, {"url": "http://www.chaos.umd.edu/gallery/pattern.html", "image": "http://www.chaos.umd.edu/gallery/spiral3.jpg", "description": "Ginzburg-Landau Equation"}, {"url": "http://www.mpie.de/index.php?id=triplejunction", "image": "http://www.mpie.de/typo3temp/pics/bbe3fe01f2.png", "description": "Modeling of Polycrystalline Microstructure Evolution"}, {"url": "http://dantzig.mechanical.illinois.edu/", "image": "http://dantzig.mechanical.illinois.edu/PFC/t24rg_rotflip.jpg", "description": "Phase Field Crystal Modeling of Microstructure"}, {"url": "http://www.uwethiele.de/", "image": "http://pauli.uni-muenster.de/~thiele/Jpg/Thie13_fig12g.jpg", "description": "Swift-Hohenberg Equation"}, {"url": "https://www.youtube.com/watch?v=0BijYlB28ME", "image": "http://i.ytimg.com/vi/0BijYlB28ME/maxresdefault.jpg", "description": "Phase Field Model for Grain Growth with Second Phase"}, {"url": "http://www.nist.gov/itl/math/hpcvg/dendrite.cfm", "image": "http://www.nist.gov/itl/math/hpcvg/upload/cover-dendrite.jpg", "description": "A Simulated Dendrite of Copper-Nickel Alloy"}, {"url": "http://users.ices.utexas.edu/~jrc/ccm/itamit/abstracts.php", "image": "http://users.ices.utexas.edu/~jrc/ccm/itamit/granasy1.jpg", "description": "Phase Field Theory of Polycrystalline Freezing"}, {"url": "http://spaceflight.esa.int/impress/text/pop-up/phase.html", "image": "http://spaceflight.esa.int/impress/text/pop-up/phase.jpg", "description": "2D Phase Field Simulations of Polycrystalline Solidification"}, {"url": "http://www.cis.kit.ac.jp/~takaki/phase/pfc1_e.html", "image": "http://www.cis.kit.ac.jp/~takaki/phase/movie/pfc1_def.gif", "description": "Phase-Field-Crystal Simulations for Solidification and Deformation"}, {"url": "http://magnetserver.cmpe.ubc.ca/wiki/index.php/Sina_Shahandeh", "image": "http://magnetserver.cmpe.ubc.ca/wiki/images/thumb/8/80/RGBLable_border_Uniform_2000.png/250px-RGBLable_border_Uniform_2000.png", "description": "Simulated grain structure using phase field method"}, {"url": "http://en.wikipedia.org/wiki/Phase_field_models", "image": "http://upload.wikimedia.org/wikipedia/commons/thumb/e/e7/Phase_field_order_parameter.jpg/280px-Phase_field_order_parameter.jpg", "description": "Wikipedia Phase Field Entry"}, {"url": "http://www.ctcms.nist.gov/fipy/", "image": "http://www.ctcms.nist.gov/fipy/_static/examples/phase/anisotropy/dendrite.png", "description": "FiPy Finite Volume Code"}, {"url": "http://www.mem.drexel.edu/ysun/Solidification.htm", "image": "http://www.mem.drexel.edu/ysun/files/density.png", "description": "Solidfication Simulation"}, {"url": "http://www.sim.gsic.titech.ac.jp/Japanese/Member/shimokawabe/research.html", "image": "http://www.sim.gsic.titech.ac.jp/Japanese/Member/shimokawabe/images/phase_field_shimokawabe_350_small.png", "description": "Peta-scale Phase Field Simulation"}, {"url": "https://github.com/dealii/dealii/wiki/Gallery", "image": "https://camo.githubusercontent.com/e1e7e96154e04f94f274485395d413878d3bacb5/687474703a2f2f7777772e6465616c69692e6f72672f696d616765732f77696b692f67616c6c6572792f47616c6c6572792d477261696e5f67726f7774682e706e67", "description": "Dealii Finite Element Library"}, {"url": "http://ktchu.serendipityresearch.org/research/CSE/", "image": "http://ktchu.serendipityresearch.org/research/CSE/figs/SAMR-phase_field.png", "description": "Serendipity Research"}, {"url": "http://www.comsol.com/model/phase-separation-2054", "image": "http://www.comsol.com/model/image/2054/big.png", "description": "COMSOL Finite Element Tool"}, {"url": "http://solidification.mechanical.illinois.edu/Movies/movies.html", "image": "http://solidification.mechanical.illinois.edu/Movies/Dantzig/scn1_033.gif", "description": "Binary Alloy Simulation"}, {"url": "https://www.mtm.kuleuven.be/Onderzoek/Semper/SolMicS/Research/GrainStructuresF", "image": "https://www.mtm.kuleuven.be/Onderzoek/Semper/SolMicS/Images/GGGrainanisotropic/image_preview", "description": "Evolution of Grain Structures"}, {"url": "http://www.chaos.umd.edu/gallery/pattern.html", "image": "http://www.chaos.umd.edu/gallery/spiral3.jpg", "description": "Ginzburg-Landau Equation"}, {"url": "http://www.mpie.de/index.php?id=triplejunction", "image": "http://www.mpie.de/typo3temp/pics/bbe3fe01f2.png", "description": "Modeling of Polycrystalline Microstructure Evolution"}, {"url": "http://dantzig.mechanical.illinois.edu/", "image": "http://dantzig.mechanical.illinois.edu/PFC/t24rg_rotflip.jpg", "description": "Phase Field Crystal Modeling of Microstructure"}, {"url": "http://www.uwethiele.de/", "image": "http://pauli.uni-muenster.de/~thiele/Jpg/Thie13_fig12g.jpg", "description": "Swift-Hohenberg Equation"}, {"url": "https://www.youtube.com/watch?v=0BijYlB28ME", "image": "http://i.ytimg.com/vi/0BijYlB28ME/maxresdefault.jpg", "description": "Phase Field Model for Grain Growth with Second Phase"}, {"url": "http://www.nist.gov/itl/math/hpcvg/dendrite.cfm", "image": "http://www.nist.gov/itl/math/hpcvg/upload/cover-dendrite.jpg", "description": "A Simulated Dendrite of Copper-Nickel Alloy"}, {"url": "http://users.ices.utexas.edu/~jrc/ccm/itamit/abstracts.php", "image": "http://users.ices.utexas.edu/~jrc/ccm/itamit/granasy1.jpg", "description": "Phase Field Theory of Polycrystalline Freezing"}, {"url": "http://spaceflight.esa.int/impress/text/pop-up/phase.html", "image": "http://spaceflight.esa.int/impress/text/pop-up/phase.jpg", "description": "2D Phase Field Simulations of Polycrystalline Solidification"}, {"url": "http://www.cis.kit.ac.jp/~takaki/phase/pfc1_e.html", "image": "http://www.cis.kit.ac.jp/~takaki/phase/movie/pfc1_def.gif", "description": "Phase-Field-Crystal Simulations for Solidification and Deformation"}, {"url": "http://magnetserver.cmpe.ubc.ca/wiki/index.php/Sina_Shahandeh", "image": "http://magnetserver.cmpe.ubc.ca/wiki/images/thumb/8/80/RGBLable_border_Uniform_2000.png/250px-RGBLable_border_Uniform_2000.png", "description": "Simulated grain structure using phase field method"}, {"url": "http://en.wikipedia.org/wiki/Phase_field_models", "image": "http://upload.wikimedia.org/wikipedia/commons/thumb/e/e7/Phase_field_order_parameter.jpg/280px-Phase_field_order_parameter.jpg", "description": "Wikipedia Phase Field Entry"}, {"url": "http://www.ctcms.nist.gov/fipy/", "image": "http://www.ctcms.nist.gov/fipy/_static/examples/phase/anisotropy/dendrite.png", "description": "FiPy Finite Volume Code"}, {"url": "http://www.mem.drexel.edu/ysun/Solidification.htm", "image": "http://www.mem.drexel.edu/ysun/files/density.png", "description": "Solidfication Simulation"}, {"url": "http://www.sim.gsic.titech.ac.jp/Japanese/Member/shimokawabe/research.html", "image": "http://www.sim.gsic.titech.ac.jp/Japanese/Member/shimokawabe/images/phase_field_shimokawabe_350_small.png", "description": "Peta-scale Phase Field Simulation"}, {"url": "https://github.com/dealii/dealii/wiki/Gallery", "image": "https://camo.githubusercontent.com/e1e7e96154e04f94f274485395d413878d3bacb5/687474703a2f2f7777772e6465616c69692e6f72672f696d616765732f77696b692f67616c6c6572792f47616c6c6572792d477261696e5f67726f7774682e706e67", "description": "Dealii Finite Element Library"}];
 
 data.forEach(function(d, i) {
   d.i = i % 10;

diff --git a/_hexbin/hexbin.py b/_hexbin/hexbin.py
@@ -1,9 +1,9 @@
-import PIL
 import urllib2 as urllib
 import io
 from PIL import Image
 import yaml
 import json
+import progressbar
 
 data = yaml.load(open('hexbin.yaml', 'r'))['images']
 
@@ -25,21 +25,39 @@ open('../json/hexbin.json', 'w').write(s)
 ## Populate the canvas
 
 def thumbnail_image(image_url, size):
-    fd = urllib.urlopen(image_url)
-    image_file = io.BytesIO(fd.read())
+    try:
+        fd = urllib.urlopen(image_url)
+        image_file = io.BytesIO(fd.read())
+    except:
+        print "image_url:",image_url
+        raise
     im = Image.open(image_file)
     im.thumbnail(size, Image.ANTIALIAS)
     im0 = Image.new('RGBA', size, (255, 255, 255, 0))
     im0.paste(im, ((size[0] - im.size[0]) / 2, (size[1] - im.size[1]) / 2))
     return im0
 
+widgets = [progressbar.Percentage(),
+           ' ',
+           progressbar.Bar(marker=progressbar.RotatingMarker()),
+           ' ',
+           progressbar.ETA()]
+pbar = progressbar.ProgressBar(widgets=widgets, maxval=len(data)).start()
+
+for i, d in enumerate(data):
+    image_url = d['image']
+    im = thumbnail_image(image_url, (X, Y))  
+    d['thumbnail'] = im
+    pbar.update(i + 1)
+
+pbar.finish()
+
 blank_image = Image.new("RGB", (X * nj, Y * ni), (255, 255, 255, 0))
 
 for i in range(ni):
     for j in range(nj):
         ii = (i * ni + j) % len(data)
-        image_url = data[ii]['image']
-        im = thumbnail_image(image_url, (X, Y))
+        im = data[ii]['thumbnail']
         blank_image.paste(im, (X * j, Y * i))
     
 blank_image.save('../images/hexbin.jpg', 'JPEG')
